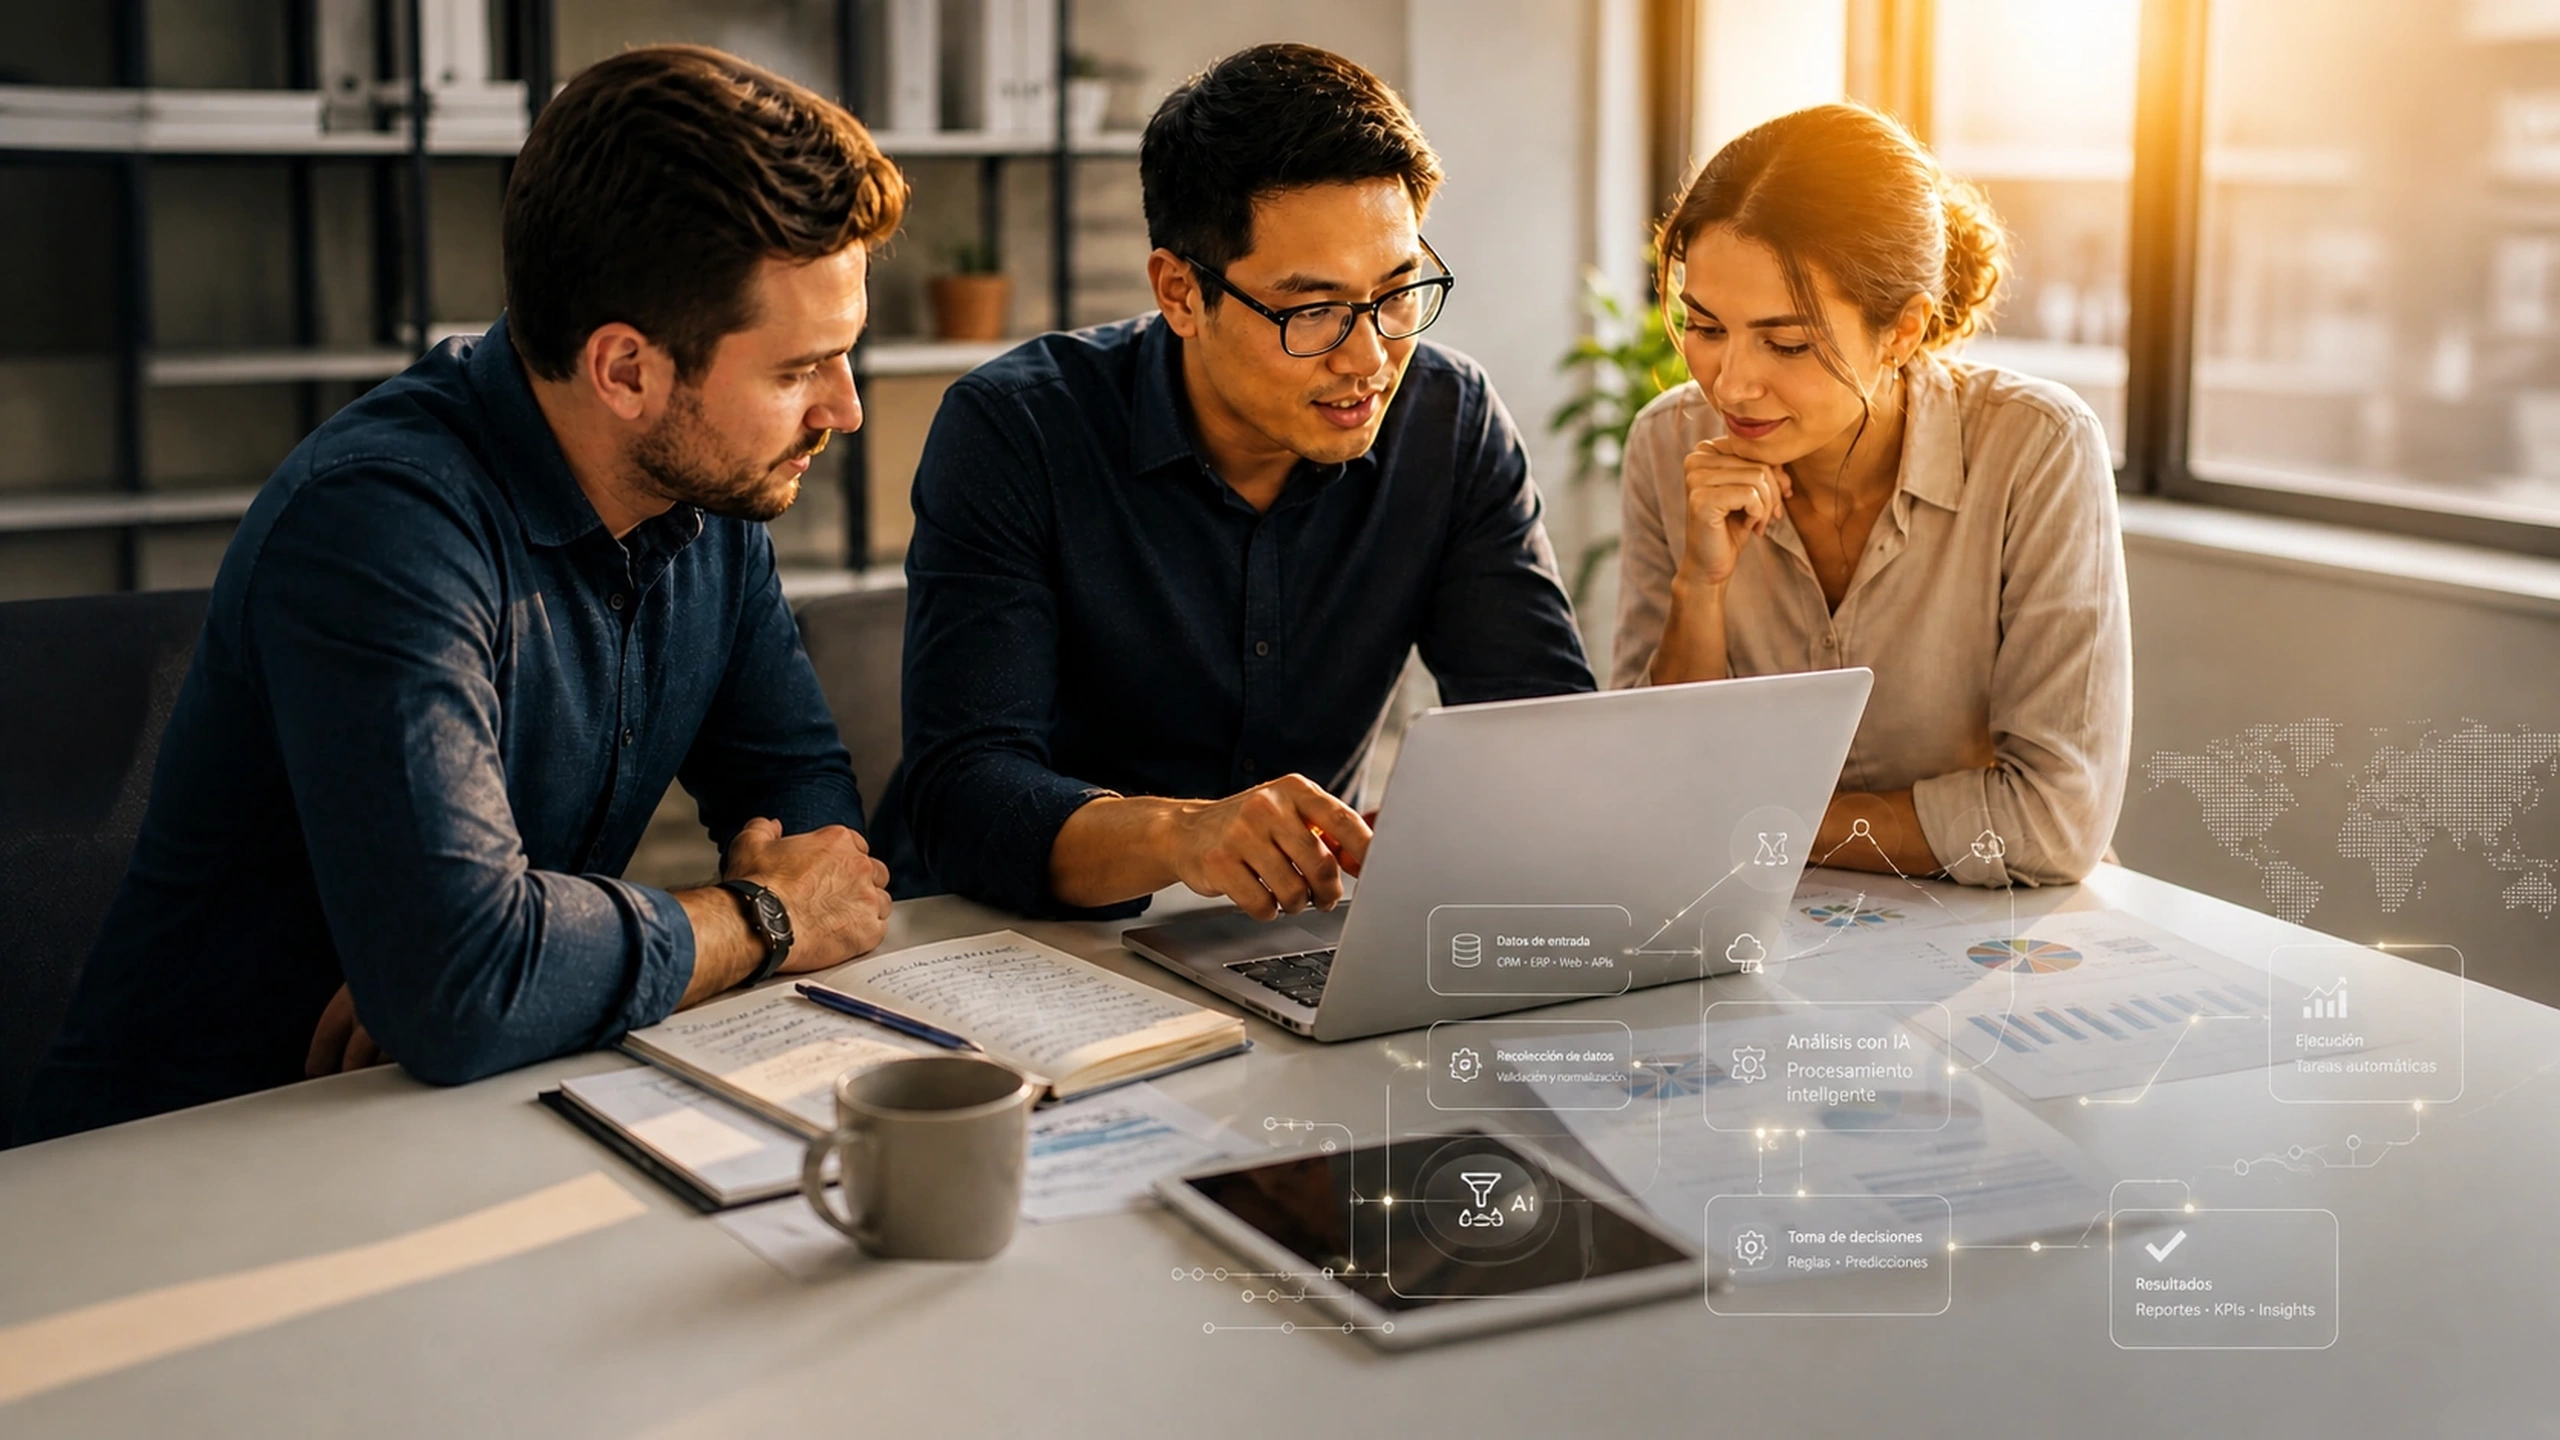
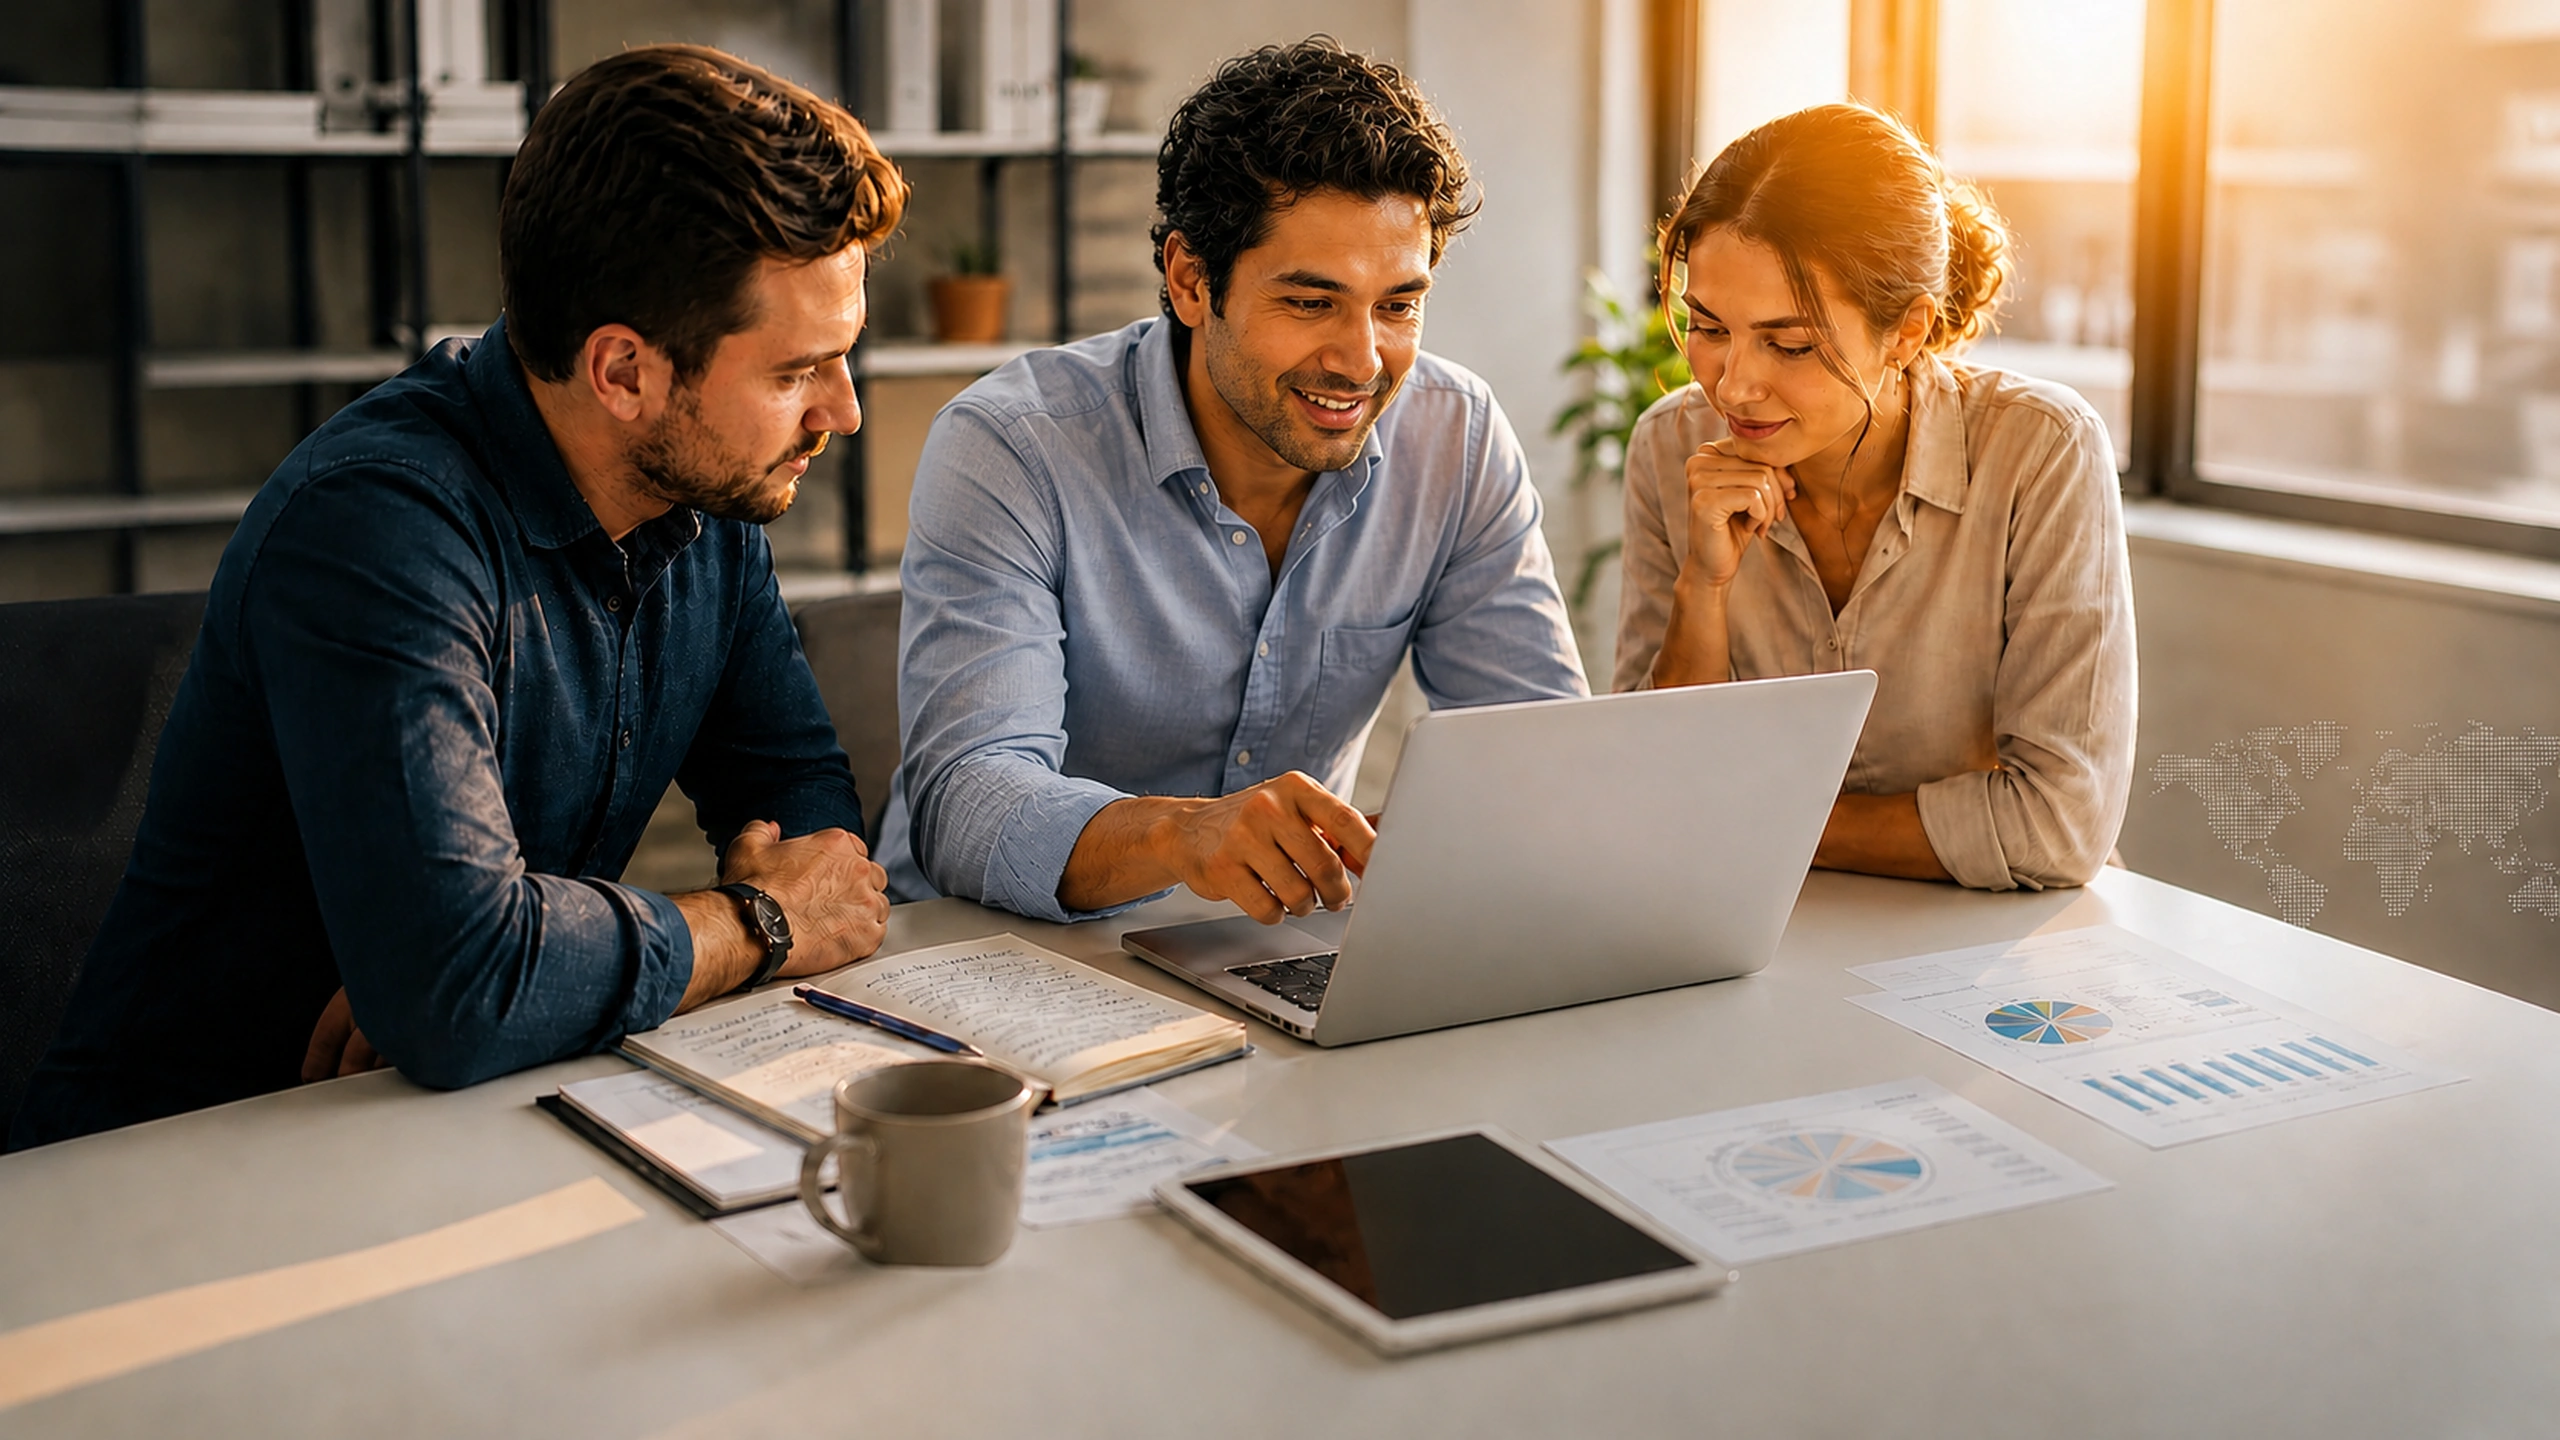
Ajusta contraste del hero y suaviza el navbar
Mejora la legibilidad del texto con overlays y actualiza la imagen de fondo.

diff --git a/src/components/sections/Hero.tsx b/src/components/sections/Hero.tsx
@@ -17,44 +17,46 @@ export function Hero() {
           alt=""
           fill
           priority
-          className="object-cover object-[64%_center] brightness-[1.06] contrast-[1.02] saturate-[1.06] sm:object-[62%_center] lg:object-[76%_center]"
+          className="object-cover object-[68%_center] brightness-[0.94] contrast-[0.9] saturate-[0.8] sm:object-[70%_center] lg:object-[84%_center]"
           sizes="100vw"
         />
         {/* Velo base muy sutil, neutro */}
-        <div className="absolute inset-0 bg-black/[0.045]" />
+        <div className="absolute inset-0 bg-black/[0.115]" />
         {/* Gradiente principal: izquierda protegida → centro suave → derecha limpia (sin tinte azul) */}
-        <div className="absolute inset-0 bg-[linear-gradient(90deg,rgba(10,10,12,0.78)_0%,rgba(16,16,18,0.62)_17%,rgba(22,22,26,0.36)_38%,rgba(12,12,14,0.12)_64%,rgba(0,0,0,0.04)_80%,rgba(255,248,242,0.08)_100%)]" />
+        <div className="absolute inset-0 bg-[linear-gradient(90deg,rgba(6,6,8,0.97)_0%,rgba(10,10,12,0.86)_24%,rgba(16,16,20,0.62)_46%,rgba(14,14,16,0.33)_66%,rgba(0,0,0,0.14)_84%,rgba(255,248,242,0.04)_100%)]" />
         {/* Refuerzo solo en zona de texto: charcoal suave, no bloque pesado */}
-        <div className="absolute inset-0 bg-[linear-gradient(90deg,rgba(8,8,10,0.42)_0%,rgba(14,14,16,0.2)_24%,rgba(18,18,20,0.08)_46%,transparent_70%)]" />
+        <div className="absolute inset-0 bg-[linear-gradient(90deg,rgba(5,5,7,0.56)_0%,rgba(10,10,12,0.4)_30%,rgba(15,15,17,0.24)_52%,transparent_76%)]" />
+        {/* Velo local del bloque de texto para mejorar legibilidad sin tarjeta visible */}
+        <div className="absolute left-0 top-[10%] h-[66%] w-[min(60rem,68vw)] bg-[radial-gradient(ellipse_at_left,rgba(5,5,7,0.72)_0%,rgba(8,8,10,0.48)_42%,rgba(8,8,10,0.08)_70%,rgba(8,8,10,0)_84%)] blur-[2px]" />
         {/* Calidez ligera a la derecha (luz natural / ambiente cálido) */}
-        <div className="absolute inset-0 bg-[linear-gradient(90deg,transparent_54%,rgba(245,130,32,0.055)_80%,rgba(255,248,240,0.11)_100%)]" />
+        <div className="absolute inset-0 bg-[linear-gradient(90deg,transparent_66%,rgba(245,130,32,0.02)_88%,rgba(255,248,240,0.05)_100%)]" />
         {/* Móvil / tablet: humo neutro, legibilidad sin apelmazar */}
-        <div className="absolute inset-0 bg-gradient-to-b from-black/52 via-black/[0.14] to-black/46 lg:hidden" />
+        <div className="absolute inset-0 bg-gradient-to-b from-black/66 via-black/[0.26] to-black/56 lg:hidden" />
         {/* Anclaje inferior: smoke, no azul */}
         <div className="absolute inset-0 bg-gradient-to-t from-[rgba(12,12,14,0.42)] via-transparent to-transparent to-42%" />
       </div>
 
       <Container className="relative z-10">
         <div className="grid items-center gap-12 lg:grid-cols-12 lg:gap-12 xl:gap-14">
-          <Reveal className="lg:col-span-7 xl:col-span-8">
-            <div className="max-w-[36rem] sm:max-w-[40rem] lg:max-w-[42rem] xl:max-w-[44rem]">
-              <p className="inline-flex max-w-full rounded-full border border-white/16 bg-white/[0.06] px-3.5 py-1.5 text-[11px] font-medium uppercase tracking-[0.14em] text-white/72 backdrop-blur-[2px] sm:px-4 sm:text-xs sm:tracking-[0.12em]">
+          <Reveal className="lg:col-span-8 xl:col-span-9">
+            <div className="max-w-[34rem] sm:max-w-[38rem] lg:max-w-[46rem] xl:max-w-[52rem]">
+              <p className="inline-flex max-w-full rounded-full border border-white/12 bg-white/[0.045] px-3.5 py-1.5 text-[11px] font-medium uppercase tracking-[0.12em] text-white/68 backdrop-blur-[2px] sm:px-4 sm:text-xs sm:tracking-[0.11em]">
                 {chip}
               </p>
-              <h1 className="mt-7 max-w-[min(100%,28rem)] text-balance text-4xl font-semibold leading-[1.16] tracking-tight text-white sm:mt-8 sm:max-w-[32rem] sm:text-[2.125rem] sm:leading-[1.14] lg:mt-9 lg:max-w-[36rem] lg:text-[2.5rem] lg:leading-[1.11] xl:text-[2.625rem] xl:leading-[1.09]">
+              <h1 className="mt-8 max-w-[min(100%,28.5rem)] text-balance text-[2.62rem] font-semibold leading-[1.16] tracking-normal text-white [text-shadow:0_2px_18px_rgba(0,0,0,0.38)] sm:mt-9 sm:max-w-[32.5rem] sm:text-[2.4rem] sm:leading-[1.14] lg:mt-10 lg:max-w-[44rem] lg:text-[2.9rem] lg:leading-[1.1] xl:max-w-[48rem] xl:text-[3.08rem] xl:leading-[1.08]">
                 {title}
               </h1>
-              <p className="mt-7 max-w-[min(100%,36rem)] text-pretty text-base leading-[1.7] text-white/90 sm:mt-8 sm:max-w-[38rem] sm:text-lg sm:leading-[1.74] lg:mt-9 lg:max-w-[40rem]">
+              <p className="mt-10 max-w-[min(100%,31rem)] text-pretty text-[1.08rem] leading-[1.82] text-white/96 [text-shadow:0_2px_14px_rgba(0,0,0,0.3)] sm:mt-11 sm:max-w-[33rem] sm:text-[1.16rem] sm:leading-[1.84] lg:mt-12 lg:max-w-[46rem] xl:max-w-[50rem]">
                 {subtitle}
               </p>
-              <div className="mt-10 sm:mt-11">
+              <div className="mt-[3.35rem] sm:mt-[3.85rem]">
                 <Button href={site.agendaUrl} external variant="primary">
                   {ctaPrimary}
                 </Button>
               </div>
             </div>
           </Reveal>
-          <div className="hidden min-h-[min(52vh,400px)] lg:col-span-5 lg:block xl:col-span-4" aria-hidden />
+          <div className="hidden min-h-[min(52vh,400px)] lg:col-span-4 lg:block xl:col-span-3" aria-hidden />
         </div>
       </Container>
     </section>

diff --git a/src/components/layout/Navbar.tsx b/src/components/layout/Navbar.tsx
@@ -138,7 +138,7 @@ export function Navbar() {
       <header className="pointer-events-none fixed left-0 right-0 top-3 z-50 flex justify-center px-4 sm:top-4 sm:px-6">
         <div
           className={cn(
-            "pointer-events-auto flex w-full max-w-[min(75rem,calc(100vw-2rem))] items-center gap-2 rounded-full border border-white/38 bg-[rgba(255,252,249,0.66)] px-3 py-1.5 shadow-[inset_0_1px_0_0_rgba(255,255,255,0.82),0_1px_2px_rgba(255,255,255,0.18),0_2px_22px_-6px_rgba(0,0,0,0.065),0_1px_4px_rgba(0,0,0,0.035)] backdrop-blur-2xl backdrop-saturate-[118%] backdrop-brightness-[1.03] transition-[box-shadow,border-color,background-color,backdrop-filter] duration-300 sm:gap-2.5 sm:px-3.5 sm:py-1.5",
+            "pointer-events-auto flex w-full max-w-[min(75rem,calc(100vw-2rem))] items-center gap-2 rounded-full border border-white/34 bg-[rgba(255,252,249,0.62)] px-3 py-1.5 shadow-[inset_0_1px_0_0_rgba(255,255,255,0.76),0_1px_2px_rgba(255,255,255,0.15),0_2px_20px_-6px_rgba(0,0,0,0.06),0_1px_3px_rgba(0,0,0,0.03)] backdrop-blur-2xl backdrop-saturate-[115%] backdrop-brightness-[1.02] transition-[box-shadow,border-color,background-color,backdrop-filter] duration-300 sm:gap-2.5 sm:px-3.5 sm:py-1.5",
             scrolled &&
               "border-white/44 bg-[rgba(255,252,249,0.76)] shadow-[inset_0_1px_0_0_rgba(255,255,255,0.88),0_1px_2px_rgba(255,255,255,0.2),0_4px_30px_-8px_rgba(0,0,0,0.075),0_1px_5px_rgba(0,0,0,0.038)]",
           )}